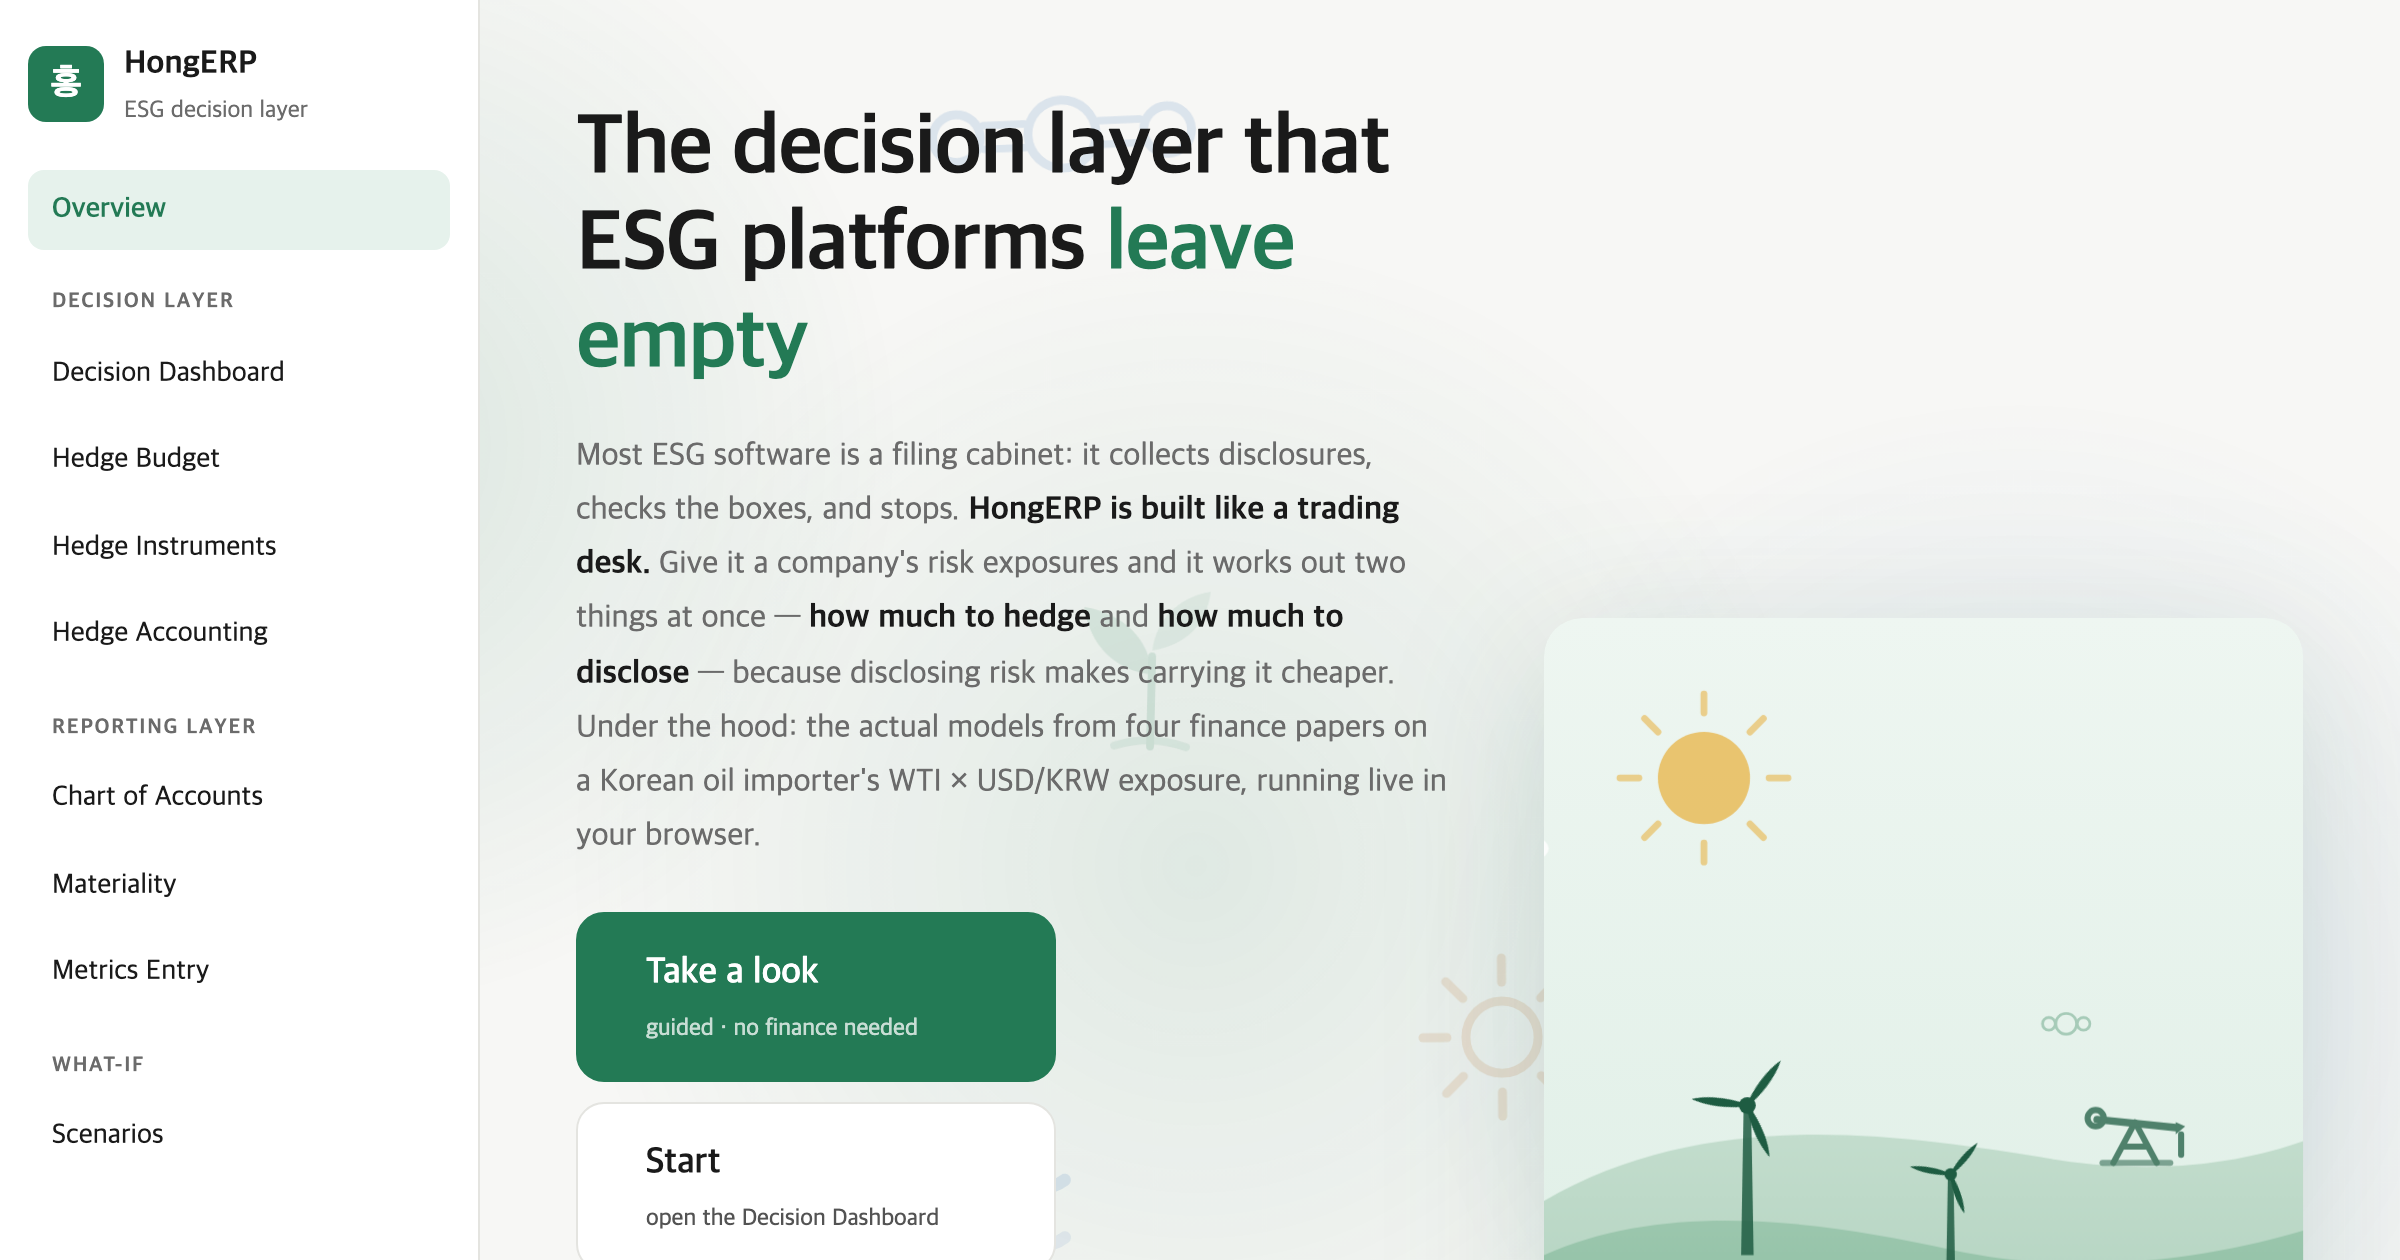
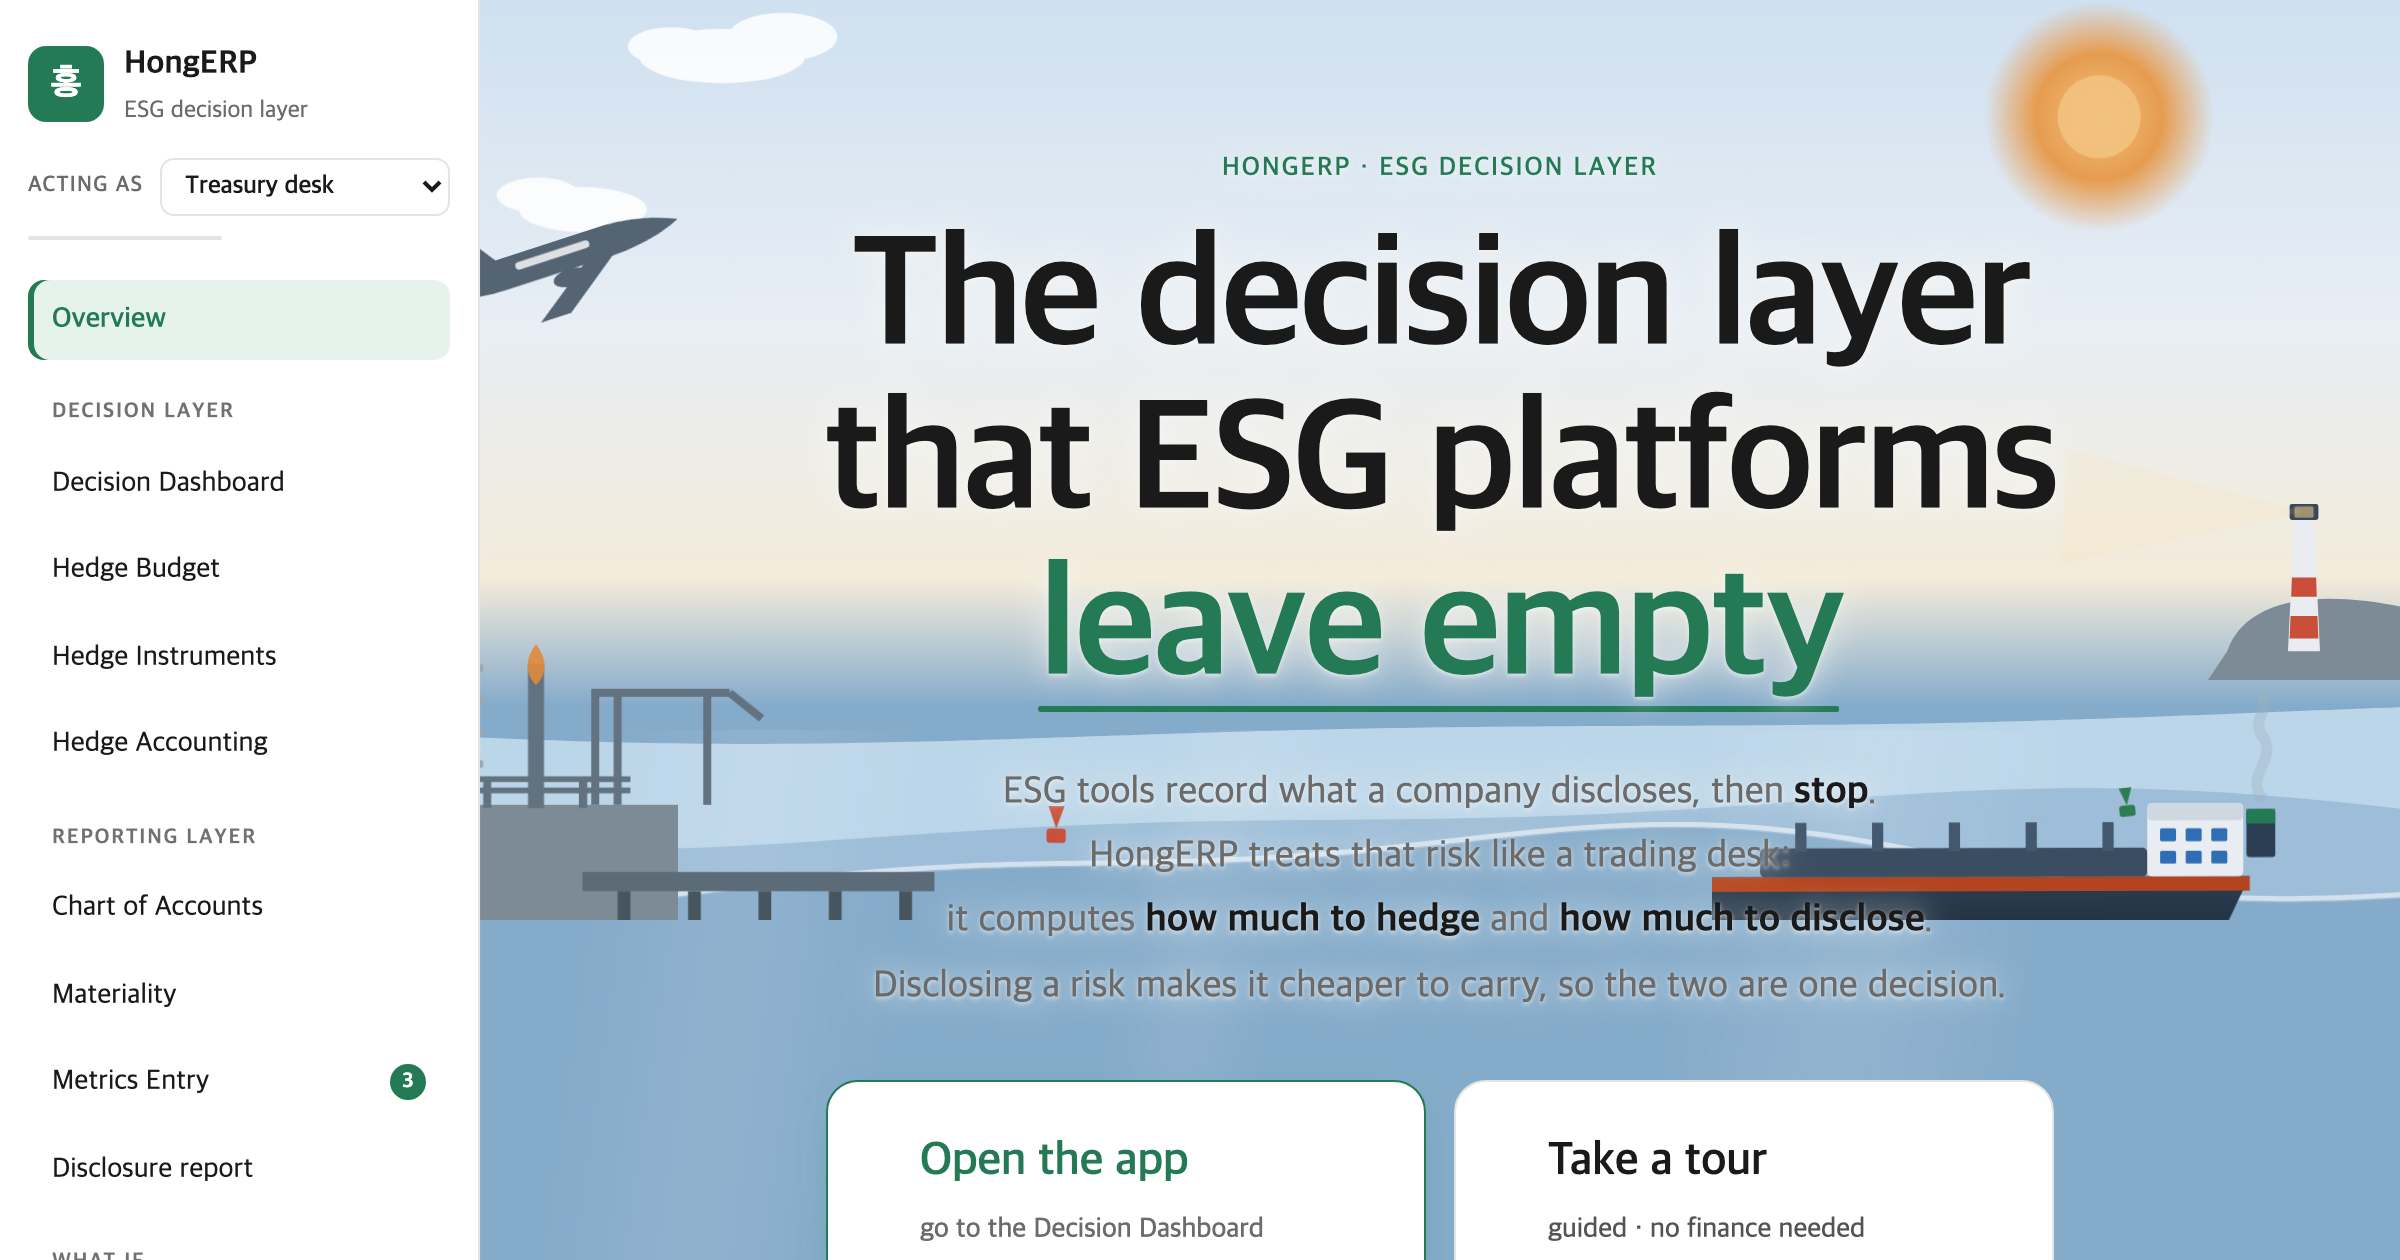
Wave 2: scroll-fade table hints, hero touch-swipe, refreshed OG
- right-edge fade cue on .ins-table-wrap / .bt-table-wrap / .ac-blotter
  signalling horizontal overflow (pointer-events none, subtle on desktop)
- AppPreview hero carousel: +/-40px touch swipe reuses the arrow handlers
  (idx change resets the auto-advance timer)
- regenerated public/og.png from the current Overview hero (dividers +
  badges); shot-og.mjs points at the port used for the capture

diff --git a/src/modules/Instruments.css b/src/modules/Instruments.css
@@ -178,6 +178,22 @@
 
 .ins-table-wrap {
   overflow-x: auto;
+  position: relative;
+}
+
+/* right-edge scroll hint: a soft fade cueing that the table runs wider than the
+   panel. Kept subtle so it is harmless on desktop, and pointer-transparent so it
+   never intercepts clicks on the table underneath. */
+.ins-table-wrap::after {
+  content: '';
+  position: absolute;
+  top: 0;
+  right: 0;
+  bottom: 0;
+  width: 24px;
+  pointer-events: none;
+  opacity: 0.9;
+  background: linear-gradient(to right, transparent, var(--panel));
 }
 
 .ins-table-wrap table {

diff --git a/src/components/AppPreview.tsx b/src/components/AppPreview.tsx
@@ -218,6 +218,7 @@ export default function AppPreview() {
   const [dial, setDial] = useState(0.5)
   const [paused, setPaused] = useState(false)
   const rootRef = useRef<HTMLDivElement | null>(null)
+  const touchX = useRef<number | null>(null)
   const reduced = typeof window !== 'undefined' && window.matchMedia('(prefers-reduced-motion: reduce)').matches
 
   // internal dial — the looping "gif" motion inside the active card
@@ -277,7 +278,19 @@ export default function AppPreview() {
       onMouseEnter={() => setPaused(true)}
       onMouseLeave={() => setPaused(false)}
     >
-      <div className="ap-stack">
+      <div
+        className="ap-stack"
+        onTouchStart={(e) => { touchX.current = e.touches[0].clientX }}
+        onTouchEnd={(e) => {
+          if (touchX.current === null) return
+          // ±40px horizontal swipe flips a card; go() changes idx, which resets
+          // the auto-advance timer via its effect dependency
+          const dx = e.changedTouches[0].clientX - touchX.current
+          touchX.current = null
+          if (dx > 40) go(-1)
+          else if (dx < -40) go(1)
+        }}
+      >
         <span className="ap-ghost ap-ghost-2" aria-hidden />
         <span className="ap-ghost ap-ghost-1" aria-hidden />
 

diff --git a/src/modules/Accounting.css b/src/modules/Accounting.css
@@ -197,6 +197,20 @@
      newest bookings are visible, the rest scroll inside the panel */
   max-height: 236px;
   overflow-y: auto;
+  position: relative;
+}
+
+/* right-edge scroll hint (see .ins-table-wrap) */
+.ac-blotter::after {
+  content: '';
+  position: absolute;
+  top: 0;
+  right: 0;
+  bottom: 0;
+  width: 24px;
+  pointer-events: none;
+  opacity: 0.9;
+  background: linear-gradient(to right, transparent, var(--panel));
 }
 
 .ac-blotter thead th {

diff --git a/src/modules/Backtest.css b/src/modules/Backtest.css
@@ -71,7 +71,19 @@
 .bt-panel svg { width: 100%; height: auto; display: block; }
 
 /* metrics table — same language as the strategy-comparison table */
-.bt-table-wrap { overflow-x: auto; }
+.bt-table-wrap { overflow-x: auto; position: relative; }
+/* right-edge scroll hint (see .ins-table-wrap) */
+.bt-table-wrap::after {
+  content: '';
+  position: absolute;
+  top: 0;
+  right: 0;
+  bottom: 0;
+  width: 24px;
+  pointer-events: none;
+  opacity: 0.9;
+  background: linear-gradient(to right, transparent, var(--panel));
+}
 .bt-table-wrap table { width: 100%; border-collapse: collapse; font-size: 12.5px; }
 .bt-table-wrap th,
 .bt-table-wrap td { text-align: left; padding: 9px 12px; border-bottom: 1px solid var(--line); white-space: nowrap; }